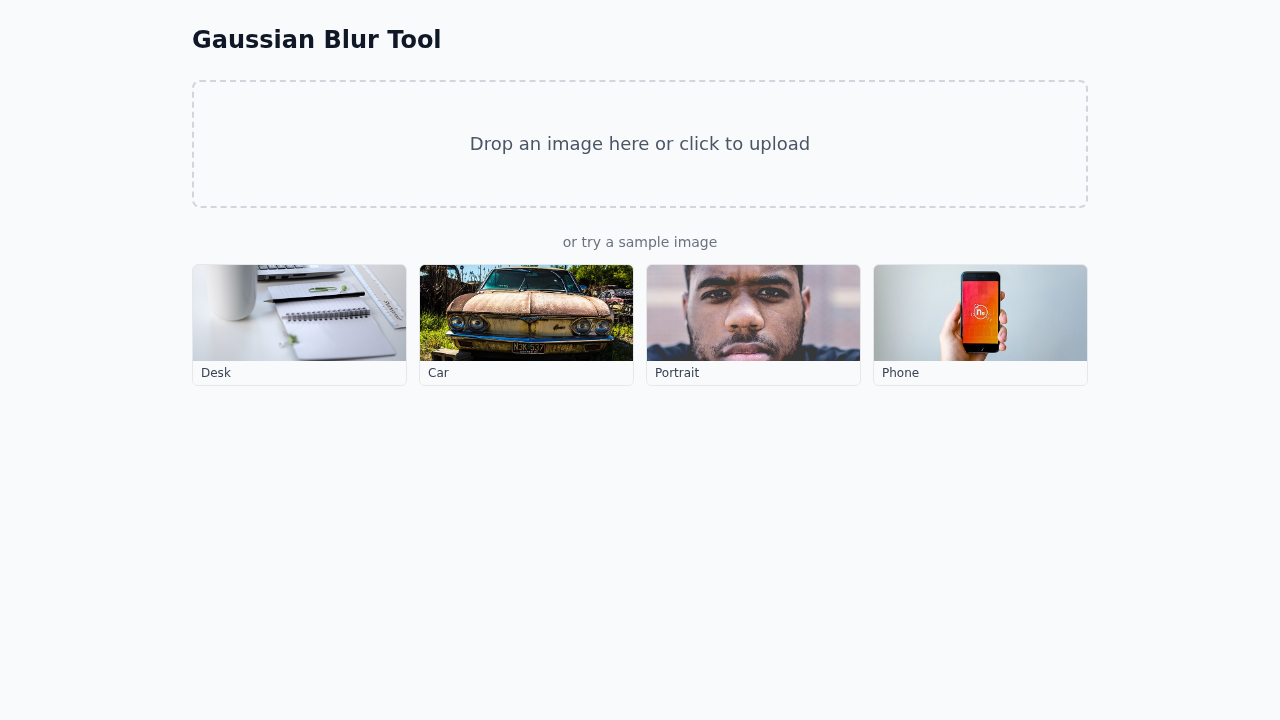
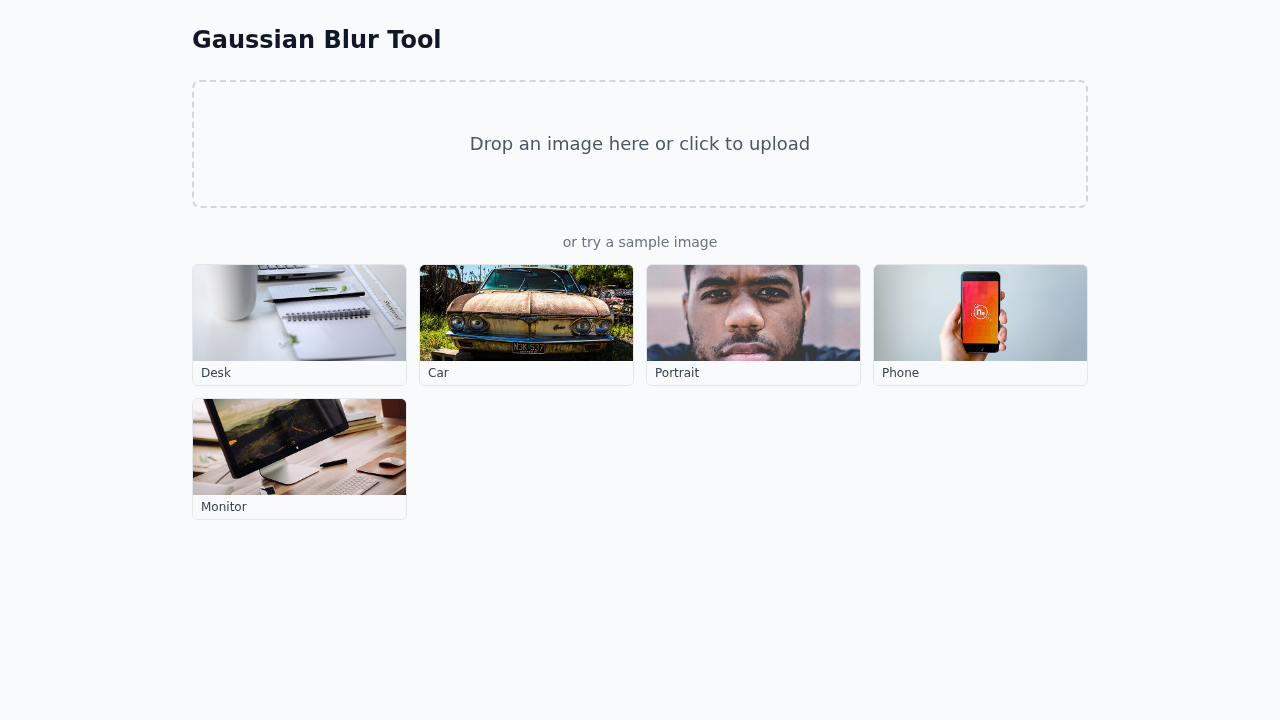
feat: add monitor sample image; verify all samples are detectable
Add a fifth CC0 sample image showing an iMac-style monitor on a desk
(a strong fit for the "blur a screen" use case).

Verified each of the five samples actually produces a detection at the
default threshold of 0.1 with the templated prompt:

  laptop-desk      | "laptop"        -> 1 detection
  car-license-plate| "license plate" -> 1 detection
  face-portrait    | "face"          -> 1 detection
  smartphone-screen| "phone"         -> 1 detection
  monitor-screen   | "monitor"       -> 1 detection

No samples needed to be removed — all five are detectable.

Source: https://commons.wikimedia.org/wiki/File:Desk_Setup_(Unsplash).jpg
License: CC0 1.0 Universal Public Domain Dedication

Changed region(s): [[0.125, 0.55, 0.3438, 0.7333]]

diff --git a/e2e/app.spec.ts b/e2e/app.spec.ts
@@ -223,10 +223,16 @@ test.describe('Auto-Detect Smoke Tests', () => {
     await expect(page.getByTestId('detect-query')).toHaveValue('laptop')
   })
 
-  test('all four samples in the gallery are loadable', async ({ page }) => {
+  test('all samples in the gallery are loadable', async ({ page }) => {
     await page.goto('/')
 
-    for (const id of ['laptop-desk', 'car-license-plate', 'face-portrait', 'smartphone-screen']) {
+    for (const id of [
+      'laptop-desk',
+      'car-license-plate',
+      'face-portrait',
+      'smartphone-screen',
+      'monitor-screen',
+    ]) {
       await expect(page.getByTestId(`sample-${id}`)).toBeVisible()
     }
   })

diff --git a/src/lib/samples.ts b/src/lib/samples.ts
@@ -40,6 +40,13 @@ export const SAMPLES: SampleImage[] = [
     description: 'A hand holding a smartphone with a screen',
     suggestedQuery: 'phone',
   },
+  {
+    id: 'monitor-screen',
+    fileName: 'monitor-screen.jpg',
+    label: 'Monitor',
+    description: 'A computer monitor on a desk',
+    suggestedQuery: 'monitor',
+  },
 ]
 
 export function sampleUrl(sample: SampleImage): string {

diff --git a/public/samples/README.md b/public/samples/README.md
@@ -10,6 +10,7 @@ and are sourced from Unsplash via Wikimedia Commons.
 | `car-license-plate.jpg` | [Wikimedia](https://commons.wikimedia.org/wiki/File:Rusty_fender_car_junkyard_(Unsplash).jpg) | Unsplash |
 | `face-portrait.jpg` | [Wikimedia](https://commons.wikimedia.org/wiki/File:Face_portrait_(Unsplash).jpg) | Unsplash |
 | `smartphone-screen.jpg` | [Wikimedia](https://commons.wikimedia.org/wiki/File:Smartphone_in_Hand_(Unsplash).jpg) | Unsplash |
+| `monitor-screen.jpg` | [Wikimedia](https://commons.wikimedia.org/wiki/File:Desk_Setup_(Unsplash).jpg) | Unsplash |
 
 All images are 640×427 (or similar) JPEGs, suitable for the in-browser
 gaussian blur and OWLv2 zero-shot detection demos.
